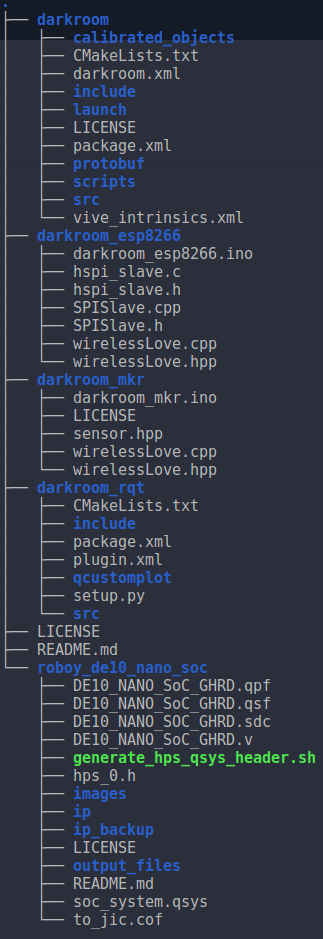
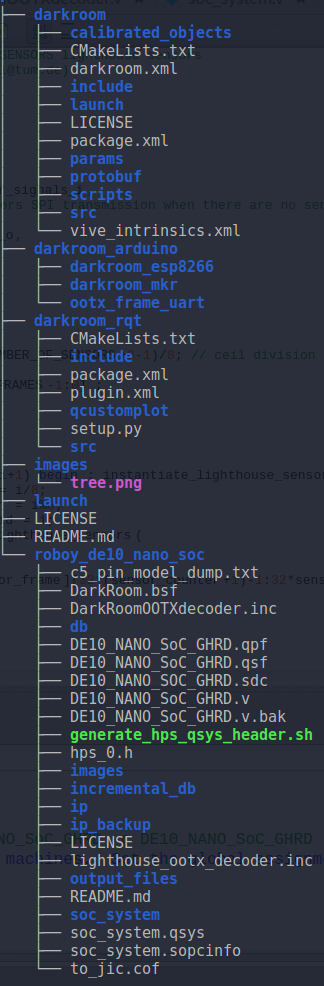
with ootx decoder

diff --git a/README.md b/README.md
@@ -7,11 +7,15 @@
 #### darkroom 
 This is a ROS package containing all the code necessary for triangulation and pose estimation of the sensors. It's the heart of the tracking system. However, the body is roboy_rqt which uses the heart for meaningful stuff. The idea was, that users could integrate this ROS package into their own tracking system.
 
-### darkroom_esp8266
+### darkroom_arduino
+#### darkroom_esp8266
 In order to receive the decoded sensor signal wirelessly via UDP, you will need an esp8266 (Nodemcu or similar are fine aswell). The sensor data is sent to the esp via SPI. The esp then sends a UDP to the host. This folder contains the arduino sketch for doing the above. You will most likely need to adapt the ssid/password/hostIP to your local lan.
 
-### darkroom_mkr
+#### darkroom_mkr
 This is an arduino sketch actually decoding the sensor signals directly. This is kind of a relict from the early days of our endeavour. Be aware that the number of sensors you can decode is limited to approx 3. The results are also sent via UDP to the host. You will most likely need to adapt the ssid/password/hostIP to your local lan.
+
+#### ootx_frame_decoder
+This is an example arduino sketch for receiving the decoded ootx frames via Serial (uart). Depends on [SDFat](https://github.com/greiman/SdFat) and [CRC32](https://github.com/bakercp/CRC32).
 
 ### darkroom_rqt
 This is the body of darkroom. It is a ROS package (and rqt plugin), using the darkroom code in a meaningful way. 
